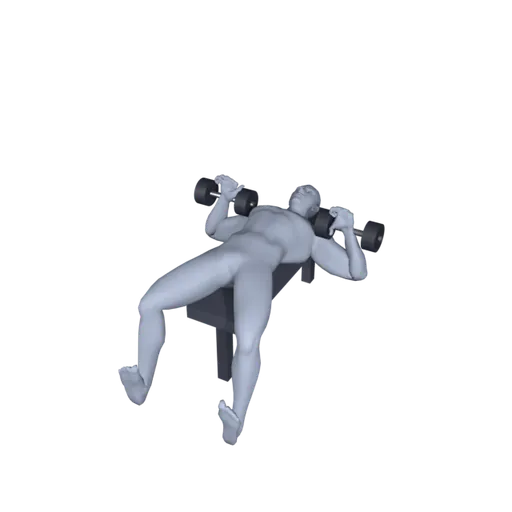
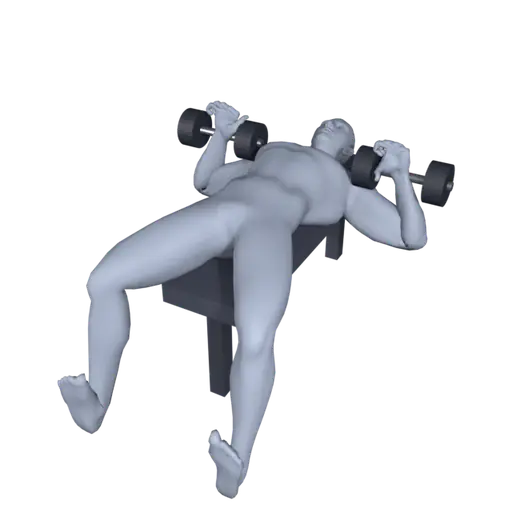
Ілюстрації вправ крупніші + берпі; іконки з виділеною робочою частиною; історія по вправах

Changed region(s): [[0.0938, 0.1875, 0.9062, 0.9688]]

diff --git a/js/app.js b/js/app.js
@@ -2472,7 +2472,7 @@ function renderProgress() {
 
   const liftsRows = lifts.length
     ? `<div class="chart-card">
-        <div class="card-label">🏆 Рекорди</div>
+        <div class="card-label">🏆 ${T('Рекорди')}</div>
         <div class="rec-list">
           ${lifts
             .map((l) => {
@@ -2503,10 +2503,10 @@ function renderProgress() {
     ${muscleRows}
     ${liftsRows}
     <div class="day-actions">
-      <button class="btn ghost" id="bodyBtn">📏 Заміри тіла${bw ? ` · ${bw.value} кг` : ''}</button>
-      <button class="btn ghost" id="histBtn">📈 Історія по вправах</button>
-      <button class="btn ghost" id="smartBtn2">🧠 Розумний тренер — відновлення</button>
-      <button class="btn ghost" id="kcalBtn2">🍎 Калорії по фото</button>
+      <button class="btn ghost" id="bodyBtn">📏 ${T('Заміри тіла')}${bw ? ` · ${bw.value} ${T('кг')}` : ''}</button>
+      <button class="btn ghost" id="histBtn">📈 ${T('Історія по вправах')}</button>
+      <button class="btn ghost" id="smartBtn2">🧠 ${T('Розумний тренер — відновлення')}</button>
+      <button class="btn ghost" id="kcalBtn2">🍎 ${T('Калорії по фото')}</button>
     </div>
   `;
   screenEl.querySelector('#setBtn').onclick = () => go('#/settings');
@@ -3059,9 +3059,9 @@ function renderBestsCard(exerciseId) {
   const b = S.exerciseBests(exerciseId);
   if (b.count === 0) return '';
   const items = b.bodyweight
-    ? [['Макс. повторень', `${b.maxReps}`]]
-    : [['Макс. вага', `${b.maxWeight} кг`], ['Макс. повт.', `${b.maxReps}`], ['1ПМ ≈', `${Math.round(b.max1RM)} кг`]];
-  return `<div class="chart-card"><div class="card-label">🏆 Рекорди</div>
+    ? [[T('Макс. повторень'), `${b.maxReps}`]]
+    : [[T('Макс. вага'), `${b.maxWeight} ${T('кг')}`], [T('Макс. повт.'), `${b.maxReps}`], [T('1ПМ ≈'), `${Math.round(b.max1RM)} ${T('кг')}`]];
+  return `<div class="chart-card"><div class="card-label">🏆 ${T('Рекорди')}</div>
     <div class="best-grid">${items.map(([k, v]) => `<div class="best-cell"><div class="best-v">${v}</div><div class="best-k">${k}</div></div>`).join('')}</div>
   </div>`;
 }
@@ -3071,7 +3071,10 @@ function renderBestsCard(exerciseId) {
 // =====================================================================
 function renderHistory(exerciseId) {
   const list = S.getExercises({ includeArchived: true });
-  const current = exerciseId || (list[0] && list[0].id);
+  // без вибору — остання вправа, яку робили (перша в списку часто ще без записів → порожній екран)
+  const lastIso = (id) => (S.exerciseHistory(id)[0] || {}).iso || '';
+  const recent = list.filter((x) => lastIso(x.id)).sort((x, y) => lastIso(y.id).localeCompare(lastIso(x.id)))[0];
+  const current = exerciseId || (recent || list[0] || {}).id;
 
   const chips = list
     .map((ex) => `<button class="hchip ${ex.id === current ? 'on' : ''}" data-id="${ex.id}">${exIconHTML(ex) || ex.icon} ${esc(ex.name)}</button>`)
@@ -3081,12 +3084,12 @@ function renderHistory(exerciseId) {
   const rows = current ? S.exerciseHistory(current) : [];
   let table = '';
   if (rows.length === 0) {
-    table = `<div class="empty"><div class="empty-ico">📭</div><p>Поки немає записів для цієї вправи.</p></div>`;
+    table = `<div class="empty"><div class="empty-ico">📭</div><p>${T('Поки немає записів для цієї вправи.')}</p></div>`;
   } else {
     table = `<div class="hist-table">
-      <div class="hist-head"><span>Дата</span><span>Вага</span><span>Підходи (повт.)</span></div>
+      <div class="hist-head"><span>${T('Дата')}</span><span>${T('Вага')}</span><span>${T('Підходи (повт.)')}</span></div>
       ${rows.map((r) => {
-        const w = r.weightType === 'bodyweight' ? '—' : `${r.weight} кг`;
+        const w = r.weightType === 'bodyweight' ? '—' : `${r.weight} ${T('кг')}`;
         const sets = r.sets.map((s) => s.reps).join(' · ');
         return `<div class="hist-row">
           <span class="hist-date">${S.prettyDate(r.iso)}</span>
@@ -3100,8 +3103,8 @@ function renderHistory(exerciseId) {
   screenEl.innerHTML = `
     <header class="appbar">
       <button class="icon-btn" id="backBtn">‹</button>
-      <div class="appbar-titles"><div class="appbar-kicker">Історія по вправі</div>
-        <div class="appbar-title">${ex ? esc(ex.name) : 'Вправи'}</div></div>
+      <div class="appbar-titles"><div class="appbar-kicker">${T('Історія по вправі')}</div>
+        <div class="appbar-title">${ex ? esc(ex.name) : T('Вправи')}</div></div>
       <button class="icon-btn" id="setBtn" title="Налаштування">⚙</button>
     </header>
     <div class="hchips">${chips}</div>
@@ -3124,7 +3127,7 @@ function renderMiniChart(exerciseId) {
   const bars = vols
     .map((v, i) => `<span class="bar" style="height:${Math.max(6, Math.round((v / max) * 100))}%" title="${S.prettyDate(rows[i].iso)}: обсяг ${Math.round(v)}"></span>`)
     .join('');
-  return `<div class="chart-card"><div class="card-label">Динаміка обсягу (вага×повт.)</div><div class="bars">${bars}</div></div>`;
+  return `<div class="chart-card"><div class="card-label">${T('Динаміка обсягу (вага×повт.)')}</div><div class="bars">${bars}</div></div>`;
 }
 
 // =====================================================================
@@ -4612,11 +4615,12 @@ async function guideText(id) {
     return base; // перекладу немає — українською
   }
 }
+const EX_IMG_V = 2; // підняти після перерендеру img/exercises — SW віддає їх із кешу (cache-first)
 function guideMediaHTML(id, cls = '') {
   // два кадри (старт / фінал) м'яко змінюють один одного; немає файлу — блок ховається
   return `<div class="guide-media ${cls}">
-    <img class="gm0" src="img/exercises/${id}_0.webp" alt="" loading="lazy" onerror="this.parentNode.remove()"/>
-    <img class="gm1" src="img/exercises/${id}_1.webp" alt="" loading="lazy" onerror="this.remove()"/>
+    <img class="gm0" src="img/exercises/${id}_0.webp?v=${EX_IMG_V}" alt="" loading="lazy" onerror="this.parentNode.remove()"/>
+    <img class="gm1" src="img/exercises/${id}_1.webp?v=${EX_IMG_V}" alt="" loading="lazy" onerror="this.remove()"/>
   </div>`;
 }
 

diff --git a/js/i18n.js b/js/i18n.js
@@ -383,6 +383,18 @@ const D = {
     'Жим': 'Press',
     'Біцепс': 'Biceps',
     'Заміри тіла': 'Body measurements',
+    'Рекорди': 'Records',
+    'Макс. повторень': 'Max reps',
+    'Макс. вага': 'Max weight',
+    'Макс. повт.': 'Max reps',
+    '1ПМ ≈': '1RM ≈',
+    'Розумний тренер — відновлення': 'Smart coach — recovery',
+    'Поки немає записів для цієї вправи.': 'No records for this exercise yet.',
+    'Дата': 'Date',
+    'Підходи (повт.)': 'Sets (reps)',
+    'Історія по вправі': 'Exercise history',
+    'Вправи': 'Exercises',
+    'Динаміка обсягу (вага×повт.)': 'Volume trend (weight×reps)',
     "Як виконувати": "How to do it",
     "Техніка вправ": "Exercise technique",
     "Як виконувати: кроки, помилки й 3D-ілюстрації": "How to do it: steps, mistakes and 3D illustrations",
@@ -990,6 +1002,18 @@ const D = {
     'Жим': 'Wyciskanie',
     'Біцепс': 'Biceps',
     'Заміри тіла': 'Pomiary ciała',
+    'Рекорди': 'Rekordy',
+    'Макс. повторень': 'Maks. powtórzeń',
+    'Макс. вага': 'Maks. ciężar',
+    'Макс. повт.': 'Maks. powt.',
+    '1ПМ ≈': '1RM ≈',
+    'Розумний тренер — відновлення': 'Inteligentny trener — regeneracja',
+    'Поки немає записів для цієї вправи.': 'Brak zapisów dla tego ćwiczenia.',
+    'Дата': 'Data',
+    'Підходи (повт.)': 'Serie (powt.)',
+    'Історія по вправі': 'Historia ćwiczenia',
+    'Вправи': 'Ćwiczenia',
+    'Динаміка обсягу (вага×повт.)': 'Dynamika objętości (ciężar×powt.)',
     "Як виконувати": "Jak wykonać",
     "Техніка вправ": "Technika ćwiczeń",
     "Як виконувати: кроки, помилки й 3D-ілюстрації": "Jak wykonać: kroki, błędy i ilustracje 3D",
@@ -1596,6 +1620,18 @@ const D = {
     'Жим': 'Drücken',
     'Біцепс': 'Bizeps',
     'Заміри тіла': 'Körpermaße',
+    'Рекорди': 'Rekorde',
+    'Макс. повторень': 'Max. Wiederholungen',
+    'Макс. вага': 'Max. Gewicht',
+    'Макс. повт.': 'Max. Wdh.',
+    '1ПМ ≈': '1RM ≈',
+    'Розумний тренер — відновлення': 'Smarter Coach — Erholung',
+    'Поки немає записів для цієї вправи.': 'Für diese Übung gibt es noch keine Einträge.',
+    'Дата': 'Datum',
+    'Підходи (повт.)': 'Sätze (Wdh.)',
+    'Історія по вправі': 'Übungsverlauf',
+    'Вправи': 'Übungen',
+    'Динаміка обсягу (вага×повт.)': 'Volumenverlauf (Gewicht×Wdh.)',
     "Як виконувати": "So geht’s",
     "Техніка вправ": "Übungstechnik",
     "Як виконувати: кроки, помилки й 3D-ілюстрації": "So geht’s: Schritte, Fehler und 3D-Illustrationen",
@@ -2202,6 +2238,18 @@ const D = {
     'Жим': 'Press',
     'Біцепс': 'Bíceps',
     'Заміри тіла': 'Medidas corporales',
+    'Рекорди': 'Récords',
+    'Макс. повторень': 'Máx. repeticiones',
+    'Макс. вага': 'Peso máx.',
+    'Макс. повт.': 'Máx. rep.',
+    '1ПМ ≈': '1RM ≈',
+    'Розумний тренер — відновлення': 'Entrenador inteligente — recuperación',
+    'Поки немає записів для цієї вправи.': 'Aún no hay registros de este ejercicio.',
+    'Дата': 'Fecha',
+    'Підходи (повт.)': 'Series (rep.)',
+    'Історія по вправі': 'Historial del ejercicio',
+    'Вправи': 'Ejercicios',
+    'Динаміка обсягу (вага×повт.)': 'Evolución del volumen (peso×rep.)',
     "Як виконувати": "Cómo hacerlo",
     "Техніка вправ": "Técnica de ejercicios",
     "Як виконувати: кроки, помилки й 3D-ілюстрації": "Cómo hacerlo: pasos, errores e ilustraciones 3D",
@@ -2808,6 +2856,18 @@ const D = {
     'Жим': 'Développé',
     'Біцепс': 'Biceps',
     'Заміри тіла': 'Mensurations',
+    'Рекорди': 'Records',
+    'Макс. повторень': 'Rép. max',
+    'Макс. вага': 'Charge max',
+    'Макс. повт.': 'Rép. max',
+    '1ПМ ≈': '1RM ≈',
+    'Розумний тренер — відновлення': 'Coach intelligent — récupération',
+    'Поки немає записів для цієї вправи.': 'Aucun enregistrement pour cet exercice.',
+    'Дата': 'Date',
+    'Підходи (повт.)': 'Séries (rép.)',
+    'Історія по вправі': 'Historique de l’exercice',
+    'Вправи': 'Exercices',
+    'Динаміка обсягу (вага×повт.)': 'Évolution du volume (poids×rép.)',
     "Як виконувати": "Comment faire",
     "Техніка вправ": "Technique des exercices",
     "Як виконувати: кроки, помилки й 3D-ілюстрації": "Comment faire : étapes, erreurs et illustrations 3D",
@@ -3414,6 +3474,18 @@ const D = {
     'Жим': 'Distensione',
     'Біцепс': 'Bicipiti',
     'Заміри тіла': 'Misure del corpo',
+    'Рекорди': 'Record',
+    'Макс. повторень': 'Max ripetizioni',
+    'Макс. вага': 'Peso max',
+    'Макс. повт.': 'Max rip.',
+    '1ПМ ≈': '1RM ≈',
+    'Розумний тренер — відновлення': 'Coach intelligente — recupero',
+    'Поки немає записів для цієї вправи.': 'Ancora nessuna registrazione per questo esercizio.',
+    'Дата': 'Data',
+    'Підходи (повт.)': 'Serie (rip.)',
+    'Історія по вправі': 'Storico dell’esercizio',
+    'Вправи': 'Esercizi',
+    'Динаміка обсягу (вага×повт.)': 'Andamento del volume (peso×rip.)',
     "Як виконувати": "Come si fa",
     "Техніка вправ": "Tecnica degli esercizi",
     "Як виконувати: кроки, помилки й 3D-ілюстрації": "Come si fa: passaggi, errori e illustrazioni 3D",

diff --git a/js/exicons.js b/js/exicons.js
@@ -13,7 +13,8 @@ const EASE =
 const animAttr = (name, a, b, dur) =>
   a === b ? '' : `<animate attributeName="${name}" values="${a};${b};${b};${a}" dur="${dur}" repeatCount="indefinite" ${EASE}/>`;
 
-// --- примітиви (класи: b — тіло, bf — голова, w/wf — вага, f — фон) ---
+// --- примітиви (класи: b — тіло, bf — голова, w/wf — вага, f — фон;
+//     a — робоча частина (яскраво), bd/bdf — решта тіла приглушено) ---
 // статична полілінія / коло
 const PL = (pts, cls = 'b') => `<polyline class="${cls}" points="${pts}"/>`;
 const C = (x, y, r, cls = 'bf') => `<circle class="${cls}" cx="${x}" cy="${y}" r="${r}"/>`;
@@ -32,40 +33,40 @@ const ICONS = {
   squat: {
     dur: '1.8s',
     parts: (d) =>
-      AC(24, 8, 24, 17, 3.2, 'bf', d) +
-      APL('24,12 24,25', '24,21 24,31', 'b', d) +
+      AC(24, 8, 24, 17, 3.2, 'bdf', d) +
+      APL('24,12 24,25', '24,21 24,31', 'bd', d) +
       APL('9,15 39,15', '9,24 39,24', 'w', d) +
       AC(9, 15, 9, 24, 2.6, 'wf', d) + AC(39, 15, 39, 24, 2.6, 'wf', d) +
-      APL('24,17 17,15', '24,26 17,24', 'b', d) +
-      APL('24,17 31,15', '24,26 31,24', 'b', d) +
-      APL('24,25 21.5,32 19,39', '24,31 16,33 20,40', 'b', d) +
-      APL('24,25 26.5,32 29,39', '24,31 32,33 28,40', 'b', d),
+      APL('24,17 17,15', '24,26 17,24', 'bd', d) +
+      APL('24,17 31,15', '24,26 31,24', 'bd', d) +
+      APL('24,25 21.5,32 19,39', '24,31 16,33 20,40', 'a', d) +
+      APL('24,25 26.5,32 29,39', '24,31 32,33 28,40', 'a', d),
   },
   // жим лежачи (вид збоку): лава, рука вижимає вагу
   bench: {
     dur: '1.5s',
     parts: (d) =>
       PL('10,33 38,33', 'f') + PL('14,33 14,39', 'f') + PL('34,33 34,39', 'f') +
-      C(12, 29, 3) + PL('16,30 33,30') + PL('33,30 37,34 37,39') +
-      APL('22,30 22,24', '22,30 22,18', 'b', d) +
+      C(12, 29, 3, 'bdf') + PL('16,30 33,30', 'bd') + PL('33,30 37,34 37,39', 'bd') +
+      APL('22,30 22,24', '22,30 22,18', 'a', d) +
       AC(22, 21, 22, 15, 3.4, 'wf', d),
   },
   // тяга в нахилі (вид збоку): корпус нахилений, рука тягне гантель
   row: {
     dur: '1.4s',
     parts: (d) =>
-      PL('15,39 17,29') + PL('17,29 29,21') + C(33, 19, 3) +
-      APL('27,22 27,33', '27,22 27,26', 'b', d) +
+      PL('15,39 17,29', 'bd') + PL('17,29 29,21', 'bd') + C(33, 19, 3, 'bdf') +
+      APL('27,22 27,33', '27,22 27,26', 'a', d) +
       AC(27, 36, 27, 29, 3.2, 'wf', d),
   },
   // станова тяга: нахил зі штангою на землі → випрямлення
   deadlift: {
     dur: '2s',
     parts: (d) =>
-      APL('18,39 18,29', '20,39 20,27', 'b', d) +
-      APL('18,29 28,21', '20,27 20,15', 'b', d) +
-      AC(32, 19, 20, 11, 3, 'bf', d) +
-      APL('26,22 26,34', '20,17 27,28', 'b', d) +
+      APL('18,39 18,29', '20,39 20,27', 'a', d) +
+      APL('18,29 28,21', '20,27 20,15', 'a', d) +
+      AC(32, 19, 20, 11, 3, 'bdf', d) +
+      APL('26,22 26,34', '20,17 27,28', 'bd', d) +
       APL('18,36 34,36', '19,29 35,29', 'w', d) +
       AC(18, 36, 19, 29, 2.6, 'wf', d) + AC(34, 36, 35, 29, 2.6, 'wf', d),
   },
@@ -85,41 +86,41 @@ const ICONS = {
     dur: '1.6s',
     parts: (d) =>
       PL('8,39 40,39', 'f') +
-      APL('13,37 27,37', '17,27 27,37', 'b', d) +
-      AC(10.5, 35, 15, 24.5, 3, 'bf', d) +
-      PL('27,37 32,29 37,37'),
+      APL('13,37 27,37', '17,27 27,37', 'a', d) +
+      AC(10.5, 35, 15, 24.5, 3, 'bdf', d) +
+      PL('27,37 32,29 37,37', 'bd'),
   },
   // жим стоячи: штанга від плечей вгору над головою
   ohp: {
     dur: '1.6s',
     parts: (d) =>
-      C(24, 9, 3.2) + PL('24,13 24,27') +
-      PL('24,27 20,39') + PL('24,27 28,39') +
+      C(24, 9, 3.2, 'bdf') + PL('24,13 24,27', 'bd') +
+      PL('24,27 20,39', 'bd') + PL('24,27 28,39', 'bd') +
       APL('13,16 35,16', '13,5 35,5', 'w', d) +
       AC(13, 16, 13, 5, 2.4, 'wf', d) + AC(35, 16, 35, 5, 2.4, 'wf', d) +
-      APL('24,15 17,16', '24,13 18,6', 'b', d) +
-      APL('24,15 31,16', '24,13 30,6', 'b', d),
+      APL('24,15 17,16', '24,13 18,6', 'a', d) +
+      APL('24,15 31,16', '24,13 30,6', 'a', d),
   },
   // віджимання (вид збоку): планка, корпус опускається-піднімається
   pushup: {
     dur: '1.4s',
     parts: (d) =>
       PL('6,40 42,40', 'f') +
-      APL('13,27 38,35', '13,33 38,37', 'b', d) +
-      AC(9.5, 25, 9.5, 31, 3, 'bf', d) +
-      APL('15,28 15,39', '15,34 15,39', 'b', d),
+      APL('13,27 38,35', '13,33 38,37', 'bd', d) +
+      AC(9.5, 25, 9.5, 31, 3, 'bdf', d) +
+      APL('15,28 15,39', '15,34 15,39', 'a', d),
   },
   // підтягування: вис → підборіддя над перекладиною
   pullup: {
     dur: '1.8s',
     parts: (d) =>
       PL('12,7 36,7', 'w') +
-      APL('18,7 21,16', '18,7 21,10', 'b', d) +
-      APL('30,7 27,16', '30,7 27,10', 'b', d) +
-      AC(24, 12.5, 24, 6.5, 3, 'bf', d) +
-      APL('24,16 24,28', '24,10 24,22', 'b', d) +
-      APL('24,28 22.5,33 21,38', '24,22 20,28 22,34', 'b', d) +
-      APL('24,28 25.5,33 27,38', '24,22 28,28 26,34', 'b', d),
+      APL('18,7 21,16', '18,7 21,10', 'a', d) +
+      APL('30,7 27,16', '30,7 27,10', 'a', d) +
+      AC(24, 12.5, 24, 6.5, 3, 'bdf', d) +
+      APL('24,16 24,28', '24,10 24,22', 'bd', d) +
+      APL('24,28 22.5,33 21,38', '24,22 20,28 22,34', 'bd', d) +
+      APL('24,28 25.5,33 27,38', '24,22 28,28 26,34', 'bd', d),
   },
   // запасна: гантель «пульсує» вгору-вниз
   generic: {

diff --git a/service-worker.js b/service-worker.js
@@ -3,7 +3,7 @@
 //   • код застосунку (навігація, *.js, *.css) — network-first: свіжа версія підтягується
 //     при кожному онлайн-запуску, а офлайн працює з кешу;
 //   • іконки/шрифти/маніфест — cache-first (рідко змінюються), із докешуванням у рантаймі.
-const CACHE = 'kachalka-v62';
+const CACHE = 'kachalka-v63';
 // фото рецептів: окремий кеш, який не стирається при кожному оновленні версії
 const IMG_CACHE = 'kachalka-recipe-img-v1';
 const ASSETS = [

diff --git a/js/version.js b/js/version.js
@@ -1,2 +1,2 @@
 // згенеровано deploy.sh
-export const APP_VERSION = '2026-10-07 01:02';
+export const APP_VERSION = '2026-10-07 18:46';
